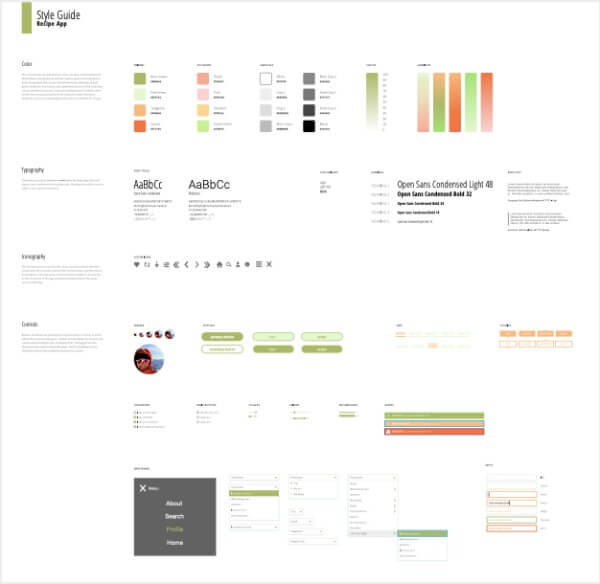
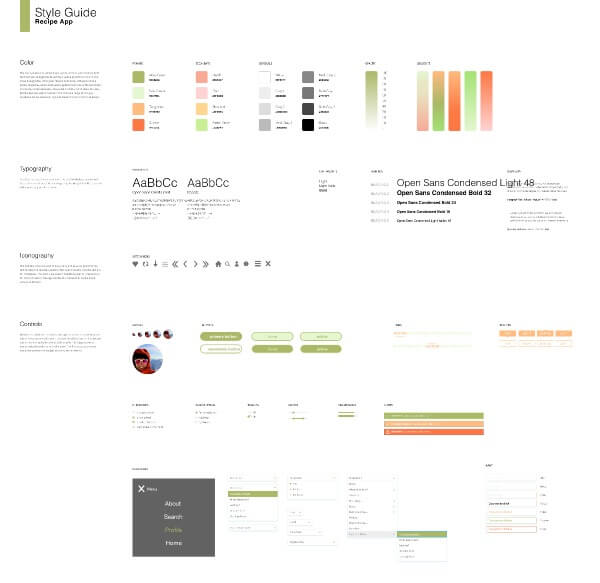
Clean up code and add styleguide image to bread

diff --git a/index.html b/index.html
@@ -1064,6 +1064,23 @@
     </div>
   </div>
 
+  <div class="row">
+    <div class="column col-md-6 col-lg-7">
+      <picture>
+        <source srcset="img/illustration@1x.jpg" media="(max-width: 767px)">
+        <img src="img/illustration@2x.jpg" alt="Blog Illustration">
+      </picture>
+    </div>
+
+    <div class="column col-md-6 col-lg-5">
+      <h3>Blog Illustration</h3>
+      <p>
+        This is an illustration I created in figma for my DIY fashion blog.
+      </p>
+    </div>
+  </div>
+</div>
+
 </main>
 
     <footer id="contact">
@@ -1087,11 +1104,11 @@
                 <path d="m42.672 26.006h12.711v-3.6418h-12.711v3.6418zm3.0113 7.9462c-0.80997 0.82413-1.3208 1.9406-1.5296 3.3494h9.8862c-0.10442-1.5035-0.61806-2.6394-1.5268-3.4218-0.92004-0.7768-2.0517-1.1638-3.4064-1.1638-1.4675 0-2.6134 0.41206-3.4233 1.2362zm8.5795-4.8891c1.5325 0.67378 2.794 1.7429 3.7874 3.2019 0.90593 1.2863 1.4873 2.7787 1.7526 4.4742 0.15522 0.99118 0.21731 2.4278 0.19191 4.2961h-15.982c0.095955 2.1689 0.85231 3.6919 2.2973 4.5633 0.87488 0.54292 1.9276 0.81578 3.1637 0.81578 1.301 0 2.365-0.33132 3.1806-0.99118 0.44873-0.35916 0.84384-0.85476 1.1825-1.4896h5.8561c-0.15522 1.2807-0.86642 2.5865-2.1251 3.9118-1.9643 2.1021-4.7159 3.1545-8.2521 3.1545-2.921 0-5.4977-0.88538-7.7244-2.6617-2.238-1.7735-3.35-4.6636-3.35-8.6617 0-3.7503 1.0075-6.6265 3.0198-8.6283 2.0179-1.9963 4.6284-3.0014 7.8429-3.0014 1.9106 0 3.6294 0.33968 5.159 1.0162zm-36.35 8.3165v7.8042h7.2023c1.2869 0 2.2916-0.17262 3.0057-0.51508 1.301-0.64037 1.9501-1.8543 1.9501-3.6529 0-1.5258-0.62653-2.5698-1.8881-3.1406-0.70555-0.3174-1.6961-0.48445-2.9661-0.49559h-7.3039zm0-11.298v6.4566h7.2136c1.2841 0 2.3311-0.24223 3.1383-0.72668 0.80151-0.48445 1.2051-1.342 1.2051-2.5671 0-1.3671-0.53058-2.2664-1.5917-2.7063-0.92004-0.30348-2.0884-0.45661-3.508-0.45661h-6.4572zm16.109-1.9629c0.90593 1.2445 1.3603 2.7313 1.3603 4.4659 0 1.7847-0.45438 3.2241-1.3716 4.31-0.51364 0.60696-1.2672 1.1638-2.2634 1.665 1.5127 0.54571 2.6529 1.406 3.429 2.5838 0.76764 1.1749 1.1543 2.606 1.1543 4.2877 0 1.7346-0.44026 3.291-1.3236 4.6664-0.5588 0.91044-1.2587 1.6789-2.0997 2.3026-0.94544 0.71555-2.0602 1.2028-3.35 1.4701-1.2897 0.2645-2.6839 0.39258-4.191 0.39258h-13.366v-29.262h14.334c3.6181 0.0529 6.1778 1.0914 7.6877 3.1183z" fill="#FFF"/>
               </g>
             </svg>
-            </div>
-
           </a>
         </div>
+        <div>
         <p class="copyright">Copyright Annie Worford 2020 </p>
+        </div>
       </div>
     </footer>
 

diff --git a/cornerstone.html b/cornerstone.html
@@ -39,6 +39,7 @@
     <div class="container">
       <div>
         <h2>Cornerstone</h2>
+      </div>
 
         <div>
           <picture>
@@ -52,9 +53,7 @@
           Cornerstone is a money saving platform that combines the ease and convenience of an app with the security of a traditional banking institution. I worked on both the UX and UI for this app, which I made using Sketch.  Built to make financial advising accessible and understandable for everyone, Cornerstone is a simple way to plan for the future and create saving goals you can stick to. I was responsible for both the UX and the UI for this project.
         </p>
       </div>
-    </div>
 
-      <div>
         <div>
           <h2>My Process</h2>
         </div>
@@ -102,7 +101,7 @@
           <p>
             As I worked through these various issues, I continued to refine my wireframes and begin to align them to the pixel grid. Major changes included adding tabs to the dashboard to navigate between monthly, weekly, and daily savings; hiding the block of photo options on the new plan page to streamline the process for users who want to skip this step; and adding the profile icon to the add a friend button to clarify what this icon means on the savings plan page.
           </p>
-        <div>
+        </div>
 
         <div>
           <picture>
@@ -145,7 +144,7 @@
           <p>
             Here is the finished product.
           </p>
-        <div>
+        </div>
 
         <div>
           <picture>
@@ -153,10 +152,7 @@
             <img src="img/cornerstone/mockup2@2x.jpg" alt="Cornerstone Mockup">
           </picture>
         </div>
-      </div>
     </div>
-  </div>
-
 </main>
 
     <footer id="contact">
@@ -185,6 +181,5 @@
       </div>
     </footer>
 
-  </body>
 
 </html>

diff --git a/kreativecity.html b/kreativecity.html
@@ -63,7 +63,6 @@
        </div>
      </div>
 
-       <div>
          <div>
            <h2>My Process</h2>
          </div>
@@ -119,7 +118,7 @@
            <p>
              Finally, I digitized my new round of wireframes and annotated them for sound and haptic gestures, according to their respective native guidelines.
            </p>
-         <div>
+         </div>
 
          <div class="row">
            <div class="col-md-6">
@@ -199,9 +198,7 @@
            </p>
          </div>
        </div>
-     </div>
    </main>
-</body>
 
     <footer id="contact">
       <div class="container">

diff --git a/bread.html b/bread.html
@@ -143,6 +143,13 @@
         </div>
 
         <div>
+          <picture>
+            <source srcset="img/bread/styleguide@1x.jpg" media="(max-width: 767px)">
+            <img src="img/bread/styleguide@2x.jpg" alt="Bread & Butter Style Guide">
+          </picture>
+        </div>
+
+        <div>
           <p>
             Next, I translated a few of my wireframes into mockups and put them through another round of feedback, this time from other designers, rather than users.
           </p>
